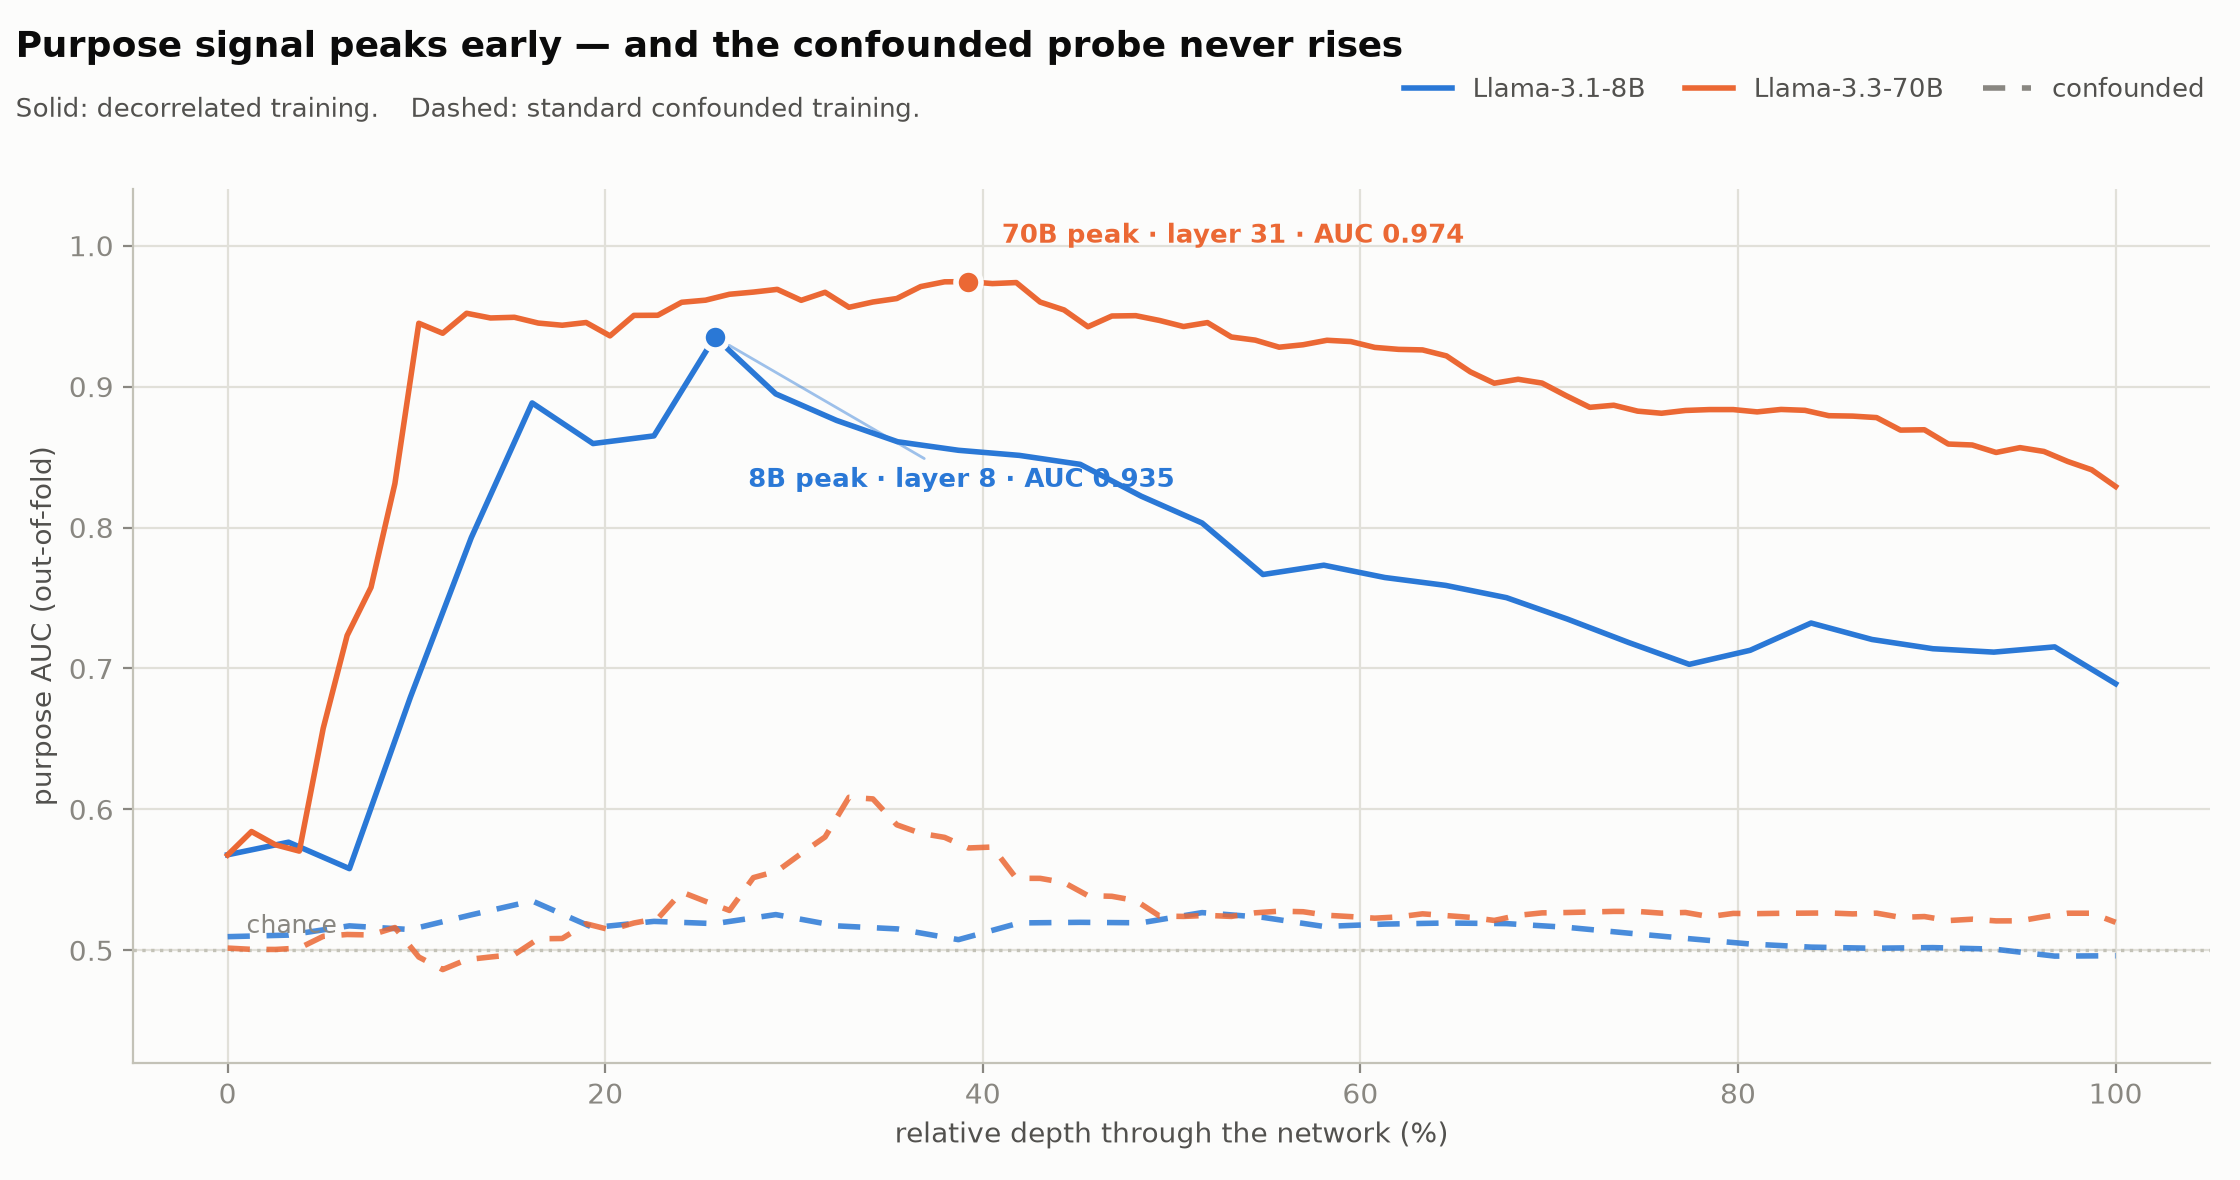
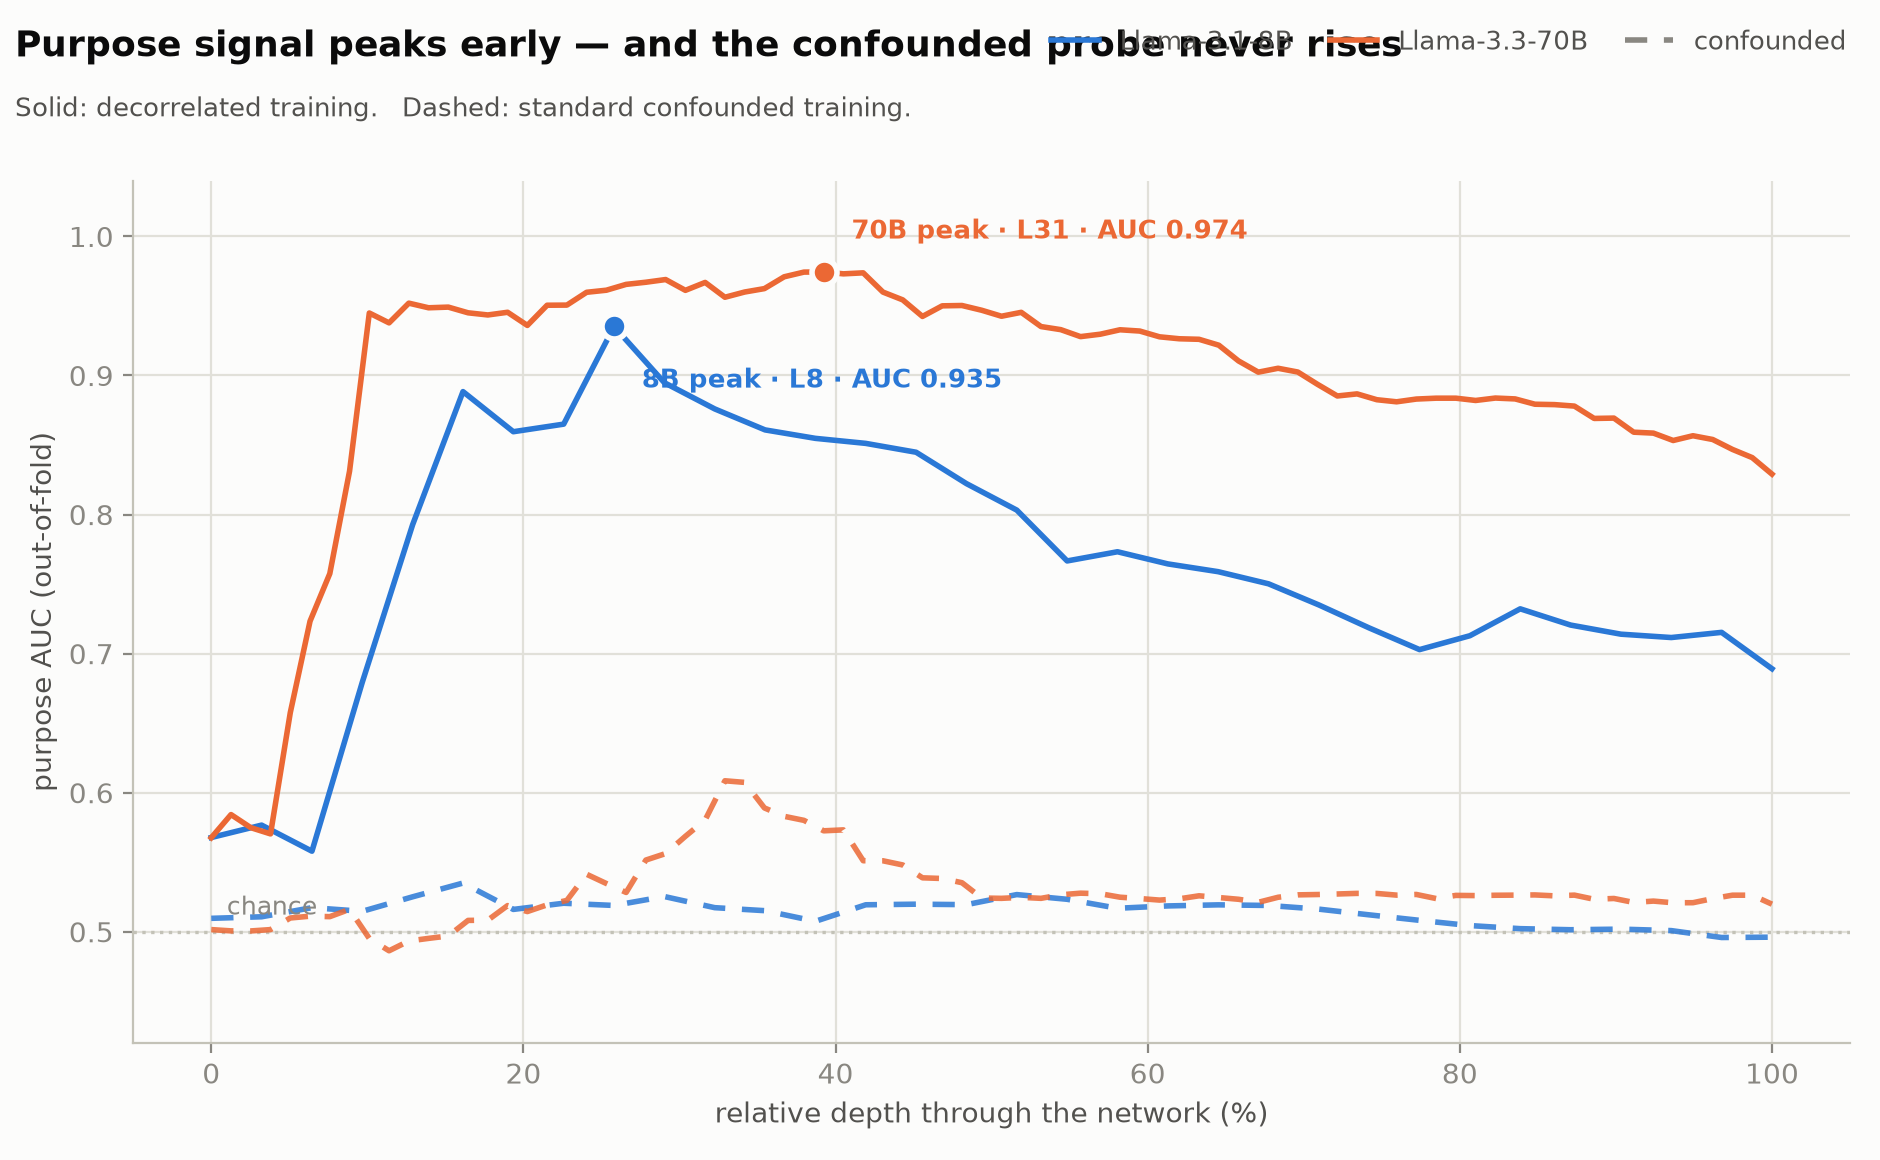
Update plots, add signal-split explainer and gap plot scripts

diff --git a/results/gap_plots.py b/results/gap_plots.py
@@ -1,0 +1,73 @@
+import json, numpy as np, matplotlib
+matplotlib.use("Agg")
+import matplotlib.pyplot as plt
+from matplotlib.lines import Line2D
+from matplotlib.patches import Patch
+OUT="/home/cfeng/Projects/personal/probes/plots"
+R="/home/cfeng/Projects/personal/probes/results"
+SURF="#fcfcfb"; INK="#0b0b0b"; INK2="#52514e"; MUTED="#898781"; GRID="#e1e0d9"; BASE="#c3c2b7"
+S8B="#2a78d6"; S70="#eb6834"
+plt.rcParams.update({"font.family":"sans-serif","font.sans-serif":["DejaVu Sans","Segoe UI","Arial"],
+    "figure.facecolor":SURF,"axes.facecolor":SURF,"savefig.facecolor":SURF,"text.color":INK,
+    "axes.labelcolor":INK2,"xtick.color":MUTED,"ytick.color":MUTED,"axes.edgecolor":BASE,"font.size":10})
+d8=json.load(open(f"{R}/layer_sweep_llama31_8b.json")); d70=json.load(open(f"{R}/layer_sweep_llama33_70b.json"))
+def curves(d):
+    x=np.array([r["layer"]/(len(d)-1)*100 for r in d])
+    dec=np.array([r["decorrelated"]["auc"] for r in d])
+    xf=np.array([(r["b2c"]["auc"]+r["c2b"]["auc"])/2 for r in d])
+    return x,dec,xf
+x8,dec8,xf8=curves(d8); x70,dec70,xf70=curves(d70)
+def axchrome(ax):
+    ax.grid(True,color=GRID,lw=0.8,zorder=0); ax.set_axisbelow(True)
+    for s in ("top","right"): ax.spines[s].set_visible(False)
+    for s in ("left","bottom"): ax.spines[s].set_color(BASE)
+
+# --- 06 ---
+fig,axes=plt.subplots(1,2,figsize=(11.4,5.7),sharey=True)
+for ax,x,dec,xf,c,name in ((axes[0],x8,dec8,xf8,S8B,"Llama-3.1-8B"),
+                           (axes[1],x70,dec70,xf70,S70,"Llama-3.3-70B")):
+    ax.fill_between(x,xf,dec,color=c,alpha=0.16,zorder=2,lw=0)
+    ax.plot(x,dec,color=c,lw=2,zorder=3)
+    ax.plot(x,xf,color=c,lw=2,ls=(0,(4,3)),zorder=3)
+    ax.axhline(0.5,color=BASE,lw=1.2,ls=":",zorder=1)
+    ax.text(1,0.508,"chance",ha="left",va="bottom",color=MUTED,fontsize=9)
+    ax.set_title(name,color=INK,loc="left",fontsize=11,fontweight="bold",pad=8)
+    ax.set_xlabel("relative depth (%)"); ax.set_ylim(0.45,1.02)
+    axchrome(ax)
+axes[1].annotate("format-bound\nsignal",xy=(76,(dec70[60]+xf70[60])/2),ha="center",va="center",
+                 color=S70,fontsize=9.5,fontweight="bold")
+axes[0].annotate("format-bound\nsignal",xy=(62,(dec8[19]+xf8[19])/2),ha="center",va="center",
+                 color=S8B,fontsize=9.5,fontweight="bold")
+axes[0].set_ylabel("purpose AUC")
+fig.text(0.007,0.98,"Purpose signal: transferable vs format-bound",
+         fontsize=13,fontweight="bold",color=INK,va="top",ha="left")
+fig.text(0.007,0.925,"Solid: all readable purpose signal (decorrelated).   Dashed: the part surviving a format switch (mean of both directions).   Shaded: the format-bound difference.",
+         fontsize=9.5,color=INK2,va="top",ha="left")
+fig.legend(handles=[Line2D([],[],color=MUTED,lw=2,label="all signal"),
+                    Line2D([],[],color=MUTED,lw=2,ls=(0,(4,3)),label="transfers"),
+                    Patch(facecolor=MUTED,alpha=0.25,label="format-bound")],
+           loc="upper right",bbox_to_anchor=(0.995,0.995),ncol=3,frameon=False,fontsize=9.5,
+           labelcolor=INK2,handlelength=1.8,columnspacing=1.2)
+fig.tight_layout(rect=[0,0,1,0.87]); fig.savefig(f"{OUT}/06_signal_split_by_depth.png",dpi=200); plt.close(fig)
+
+# --- 07 ---
+fig,ax=plt.subplots(figsize=(9.8,5.7))
+g8,g70=dec8-xf8,dec70-xf70
+ax.plot(x8,g8,color=S8B,lw=2,zorder=3)
+ax.plot(x70,g70,color=S70,lw=2,zorder=3)
+ax.axhline(0,color=BASE,lw=1.2,ls=":",zorder=1)
+ax.text(99,0.004,"fully format-invariant",ha="right",va="bottom",color=MUTED,fontsize=9)
+i19=19
+ax.plot([x70[i19]],[g70[i19]],"o",ms=9,color=S70,mec=SURF,mew=2,zorder=4)
+ax.annotate(f"70B layer 19 · gap {g70[i19]:+.3f}\nnearly all signal transfers",
+            (x70[i19],g70[i19]),textcoords="offset points",xytext=(12,-38),
+            color=S70,fontsize=9.5,fontweight="bold")
+ax.set_xlabel("relative depth through the network (%)")
+ax.set_ylabel("format-bound gap  (decorrelated − transfer AUC)")
+axchrome(ax); ax.set_ylim(-0.02,0.32)
+fig.legend(handles=[Line2D([],[],color=S8B,lw=2,label="Llama-3.1-8B"),
+                    Line2D([],[],color=S70,lw=2,label="Llama-3.3-70B")],
+           loc="upper right",bbox_to_anchor=(0.995,0.995),ncol=1,frameon=False,fontsize=9.5,
+           labelcolor=INK2,handlelength=1.8)
+fig.tight_layout(rect=[0,0,1,0.94]); fig.savefig(f"{OUT}/07_format_bound_gap.png",dpi=200); plt.close(fig)
+print("fixed 06, 07")

diff --git a/results/make_plot_06a.py b/results/make_plot_06a.py
@@ -1,0 +1,63 @@
+"""06a: single-panel 70B explainer for plot 06 — the two source curves and the gap."""
+import json, numpy as np, matplotlib
+matplotlib.use("Agg")
+import matplotlib.pyplot as plt
+from matplotlib.lines import Line2D
+
+OUT = "/home/cfeng/Projects/personal/probes/plots"
+R = "/home/cfeng/Projects/personal/probes/results"
+SURF = "#fcfcfb"; INK = "#0b0b0b"; INK2 = "#52514e"; MUTED = "#898781"
+GRID = "#e1e0d9"; BASE = "#c3c2b7"; S70 = "#eb6834"
+plt.rcParams.update({"font.family": "sans-serif",
+    "font.sans-serif": ["DejaVu Sans", "Segoe UI", "Helvetica", "Arial"],
+    "figure.facecolor": SURF, "axes.facecolor": SURF, "savefig.facecolor": SURF,
+    "text.color": INK, "axes.labelcolor": INK2, "xtick.color": MUTED,
+    "ytick.color": MUTED, "axes.edgecolor": BASE, "font.size": 10})
+
+d70 = json.load(open(f"{R}/layer_sweep_llama33_70b.json"))
+x = np.array([r["layer"] / (len(d70) - 1) * 100 for r in d70])
+dec = np.array([r["decorrelated"]["auc"] for r in d70])
+xf = np.array([(r["b2c"]["auc"] + r["c2b"]["auc"]) / 2 for r in d70])
+
+fig, ax = plt.subplots(figsize=(9.6, 5.6))
+ax.plot(x, dec, color=S70, lw=2, zorder=3)
+ax.plot(x, xf, color=S70, lw=2, ls=(0, (4, 3)), zorder=3)
+ax.axhline(0.5, color=BASE, lw=1.2, ls=":", zorder=1)
+ax.text(1, 0.508, "chance", ha="left", va="bottom", color=MUTED, fontsize=9)
+
+# direct labels on the two curves
+ax.text(52, 0.965, "trained on both formats (plot 01, decorrelated)", color=S70,
+        fontsize=9.5, fontweight="bold", ha="left", va="bottom")
+ax.text(38, 0.655, "trained on one format, tested on the other\n(mean of plot 03's two directions)",
+        color=S70, fontsize=9.5, fontweight="bold", ha="left", va="top")
+
+# the gap arrow, at a depth where the two curves are far apart
+ia = 60  # layer 60 of 0-79
+ax.annotate("", xy=(x[ia], dec[ia]), xytext=(x[ia], xf[ia]),
+            arrowprops=dict(arrowstyle="<->", color=INK2, lw=1.6), zorder=4)
+ax.text(x[ia] + 1.6, (dec[ia] + xf[ia]) / 2,
+        "gap between the two\ntraining conditions",
+        color=INK2, fontsize=9.5, ha="left", va="center")
+
+# the near-touch point: almost everything transfers
+i19 = 19
+ax.plot([x[i19]], [dec[i19]], "o", ms=8, color=S70, mec=SURF, mew=2, zorder=4)
+ax.plot([x[i19]], [xf[i19]], "o", ms=8, color=S70, mec=SURF, mew=2, zorder=4)
+ax.text(26.5, 0.935, f"layer 19 · gap {dec[i19]-xf[i19]:.2f}\nnearly everything transfers",
+        color=S70, fontsize=9.5, fontweight="bold", ha="left", va="center")
+
+ax.set_xlabel("relative depth through the network (%)")
+ax.set_ylabel("purpose AUC (out-of-fold)")
+ax.grid(True, color=GRID, lw=0.8, zorder=0); ax.set_axisbelow(True)
+for s in ("top", "right"): ax.spines[s].set_visible(False)
+for s in ("left", "bottom"): ax.spines[s].set_color(BASE)
+ax.set_ylim(0.45, 1.02)
+
+fig.legend(handles=[Line2D([], [], color=S70, lw=2, label="trained on both formats"),
+                    Line2D([], [], color=S70, lw=2, ls=(0, (4, 3)), label="trained on one format, tested on the other")],
+           loc="upper right", bbox_to_anchor=(0.995, 0.995), ncol=2, frameon=False,
+           fontsize=9.5, labelcolor=INK2, handlelength=1.8, columnspacing=1.4)
+fig.tight_layout(rect=[0, 0, 1, 0.94])
+fig.savefig(f"{OUT}/06a_signal_split_explainer.png", dpi=200)
+plt.close(fig)
+print("wrote 06a")

diff --git a/results/make_plots.py b/results/make_plots.py
@@ -69,10 +69,10 @@ for ax,p,name,col in ((axes[0],p8,"Llama-3.1-8B  ·  layer 8",S8B),(axes[1],p70,
     ax.set_title(name,color=INK,loc="left",fontsize=11,fontweight="bold",pad=10)
     ax.set_ylim(0,110); axchrome(ax,"",""); ax.grid(axis="x",visible=False)
 axes[0].set_ylabel("% of prompts called “evaluation”")
-header(fig,"The confounded probe answers by format, not purpose",
-       "Gray splits by column (quiz vs casual).   Colored splits by row (eval vs deploy) — the intended behaviour.",
-       [Line2D([],[],color=MUTED,lw=9,label="confounded training"),
-        Line2D([],[],color=INK2,lw=9,alpha=.35,label="decorrelated training")],2)
+header(fig,"The confounded probe answers by format, not purpose","",
+       [Line2D([],[],color=MUTED,lw=9,label="confounded training (only eval-quiz + deploy-casual)"),
+        Line2D([],[],color=S8B,lw=9,label="decorrelated training, Llama-3.1-8B (all four cells)"),
+        Line2D([],[],color=S70,lw=9,label="decorrelated training, Llama-3.3-70B (all four cells)")],1)
 fig.tight_layout(rect=[0,0,1,0.86]); fig.savefig(f"{OUT}/02_confound_signature.png",dpi=200); plt.close(fig)
 
 # --- 3 ---
@@ -86,8 +86,7 @@ for ax,reg,title in ((axes[0],"b2c","trained on quiz  →  tested on casual"),
     ax.set_title(title,color=INK,loc="left",fontsize=11,fontweight="bold",pad=10)
     axchrome(ax,"relative depth (%)",""); ax.set_ylim(0.42,1.0)
 axes[0].set_ylabel("purpose AUC on the unseen format")
-header(fig,"Transfer to an unseen prompt format improves with scale",
-       "A probe trained on one prompt style, evaluated on the other. Held-out purpose families throughout.",
+header(fig,"Transfer to an unseen prompt format improves with scale","",
        [Line2D([],[],color=S8B,lw=2,label="Llama-3.1-8B"),Line2D([],[],color=S70,lw=2,label="Llama-3.3-70B")],2)
 fig.tight_layout(rect=[0,0,1,0.86]); fig.savefig(f"{OUT}/03_transfer_by_depth.png",dpi=200); plt.close(fig)
 
